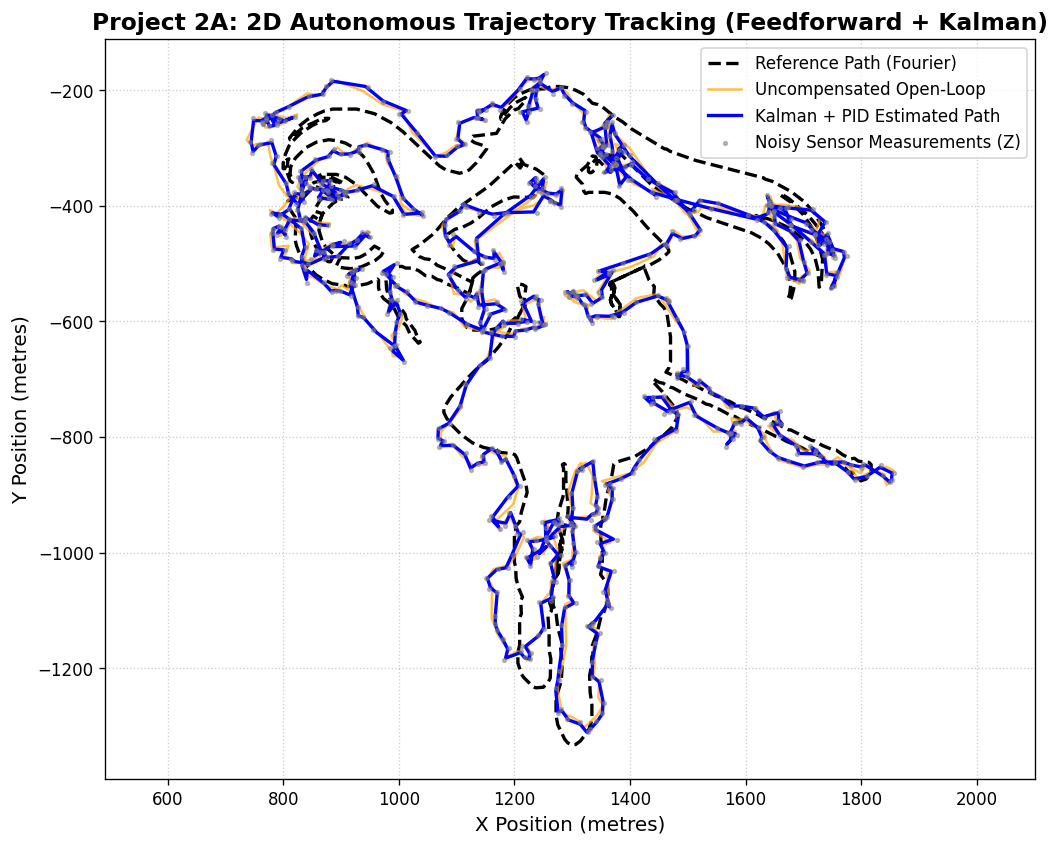
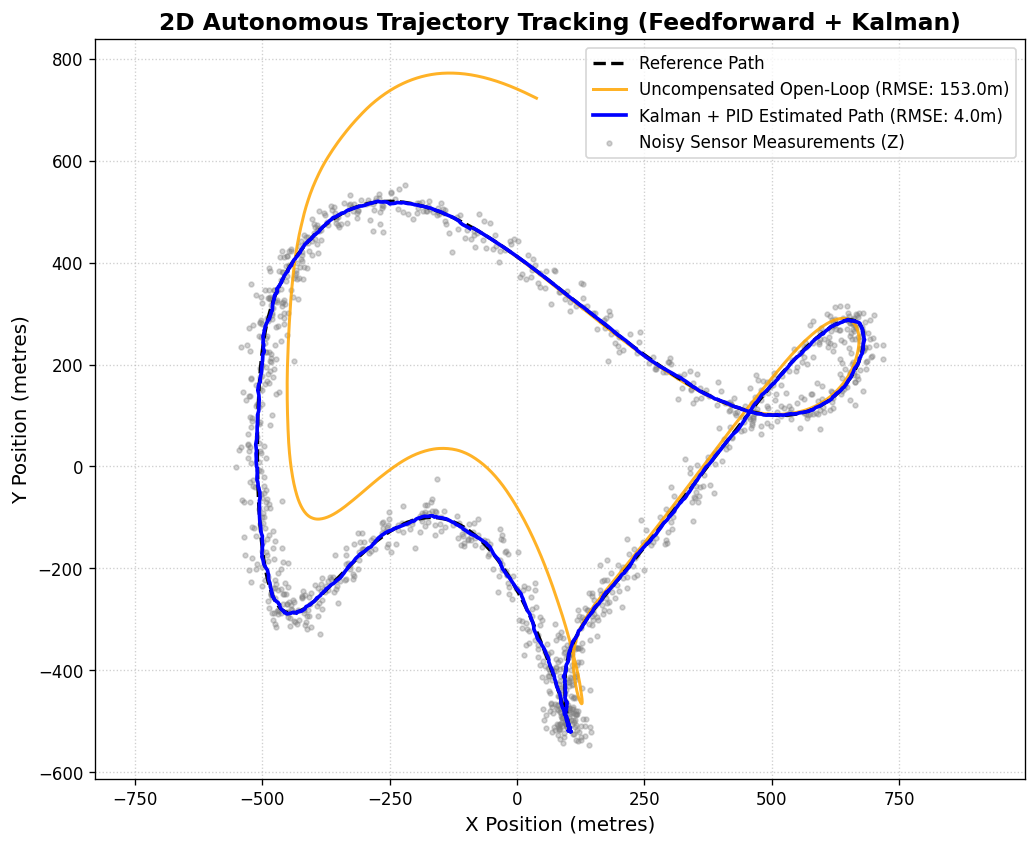
3

diff --git a/trajectory_sim.py b/trajectory_sim.py
@@ -8,16 +8,11 @@ def load_path(filename='frieren_path.npy'):
     path_data = np.load(filename)
     return path_data[:, 0], path_data[:, 1]
 
-<<<<<<< HEAD
 def run_simulation(gains, x_ref, y_ref, dt, sigma_process, sigma_sensor, seed=42):
-=======
-def run_simulation(gains, x_ref, y_ref, dt, sigma_process, sigma_sensor):
->>>>>>> c69218a7c4fa9db08f26b1b96849ff8243c4903c
     """
     Runs the 2D trajectory tracking simulation with Kalman Filter and PID control.
     gains: tuple or list of (Kp, Ki, Kd)
     """
-<<<<<<< HEAD
     if seed is not None:
         np.random.seed(seed)
         
@@ -29,16 +24,6 @@ def run_simulation(gains, x_ref, y_ref, dt, sigma_process, sigma_sensor):
     error_window = deque(maxlen=window_size)
     
     # Initialize arrays using suvats
-=======
-    Kp, Ki, Kd = gains
-    N = len(x_ref)
-    
-    # Sliding window for Integral term (prevents windup)
-    window_size = 50
-    error_window = deque(maxlen=window_size)
-    
-    # State-Space Matrices (SUVAT kinematics)
->>>>>>> c69218a7c4fa9db08f26b1b96849ff8243c4903c
     F = np.array([
         [1.0, 0.0, dt,  0.0],
         [0.0, 1.0, 0.0, dt ],
@@ -58,7 +43,6 @@ def run_simulation(gains, x_ref, y_ref, dt, sigma_process, sigma_sensor):
         [0.0, 1.0, 0.0, 0.0]
     ])
     
-<<<<<<< HEAD
     # Process noise covariance mapped through B (acceleration disturbance) + small regularization
     Q = (B @ B.T) * (sigma_process**2) + np.eye(4) * 1e-4
     R = np.eye(2) * (sigma_sensor**2)
@@ -77,44 +61,15 @@ def run_simulation(gains, x_ref, y_ref, dt, sigma_process, sigma_sensor):
     
     for k in range(N - 1):
         # Target Position
-=======
-    Q = np.eye(4) * (sigma_process**2)
-    R = np.eye(2) * (sigma_sensor**2)
-    
-    # Initial state estimates & uncertainty
-    x_est = np.array([x_ref[0], y_ref[0], 0.0, 0.0], dtype=float).reshape(4, 1)
-    P = np.eye(4) * 1.0
-    
-    # True and Open-loop states
-    x_true = np.array([x_ref[0], y_ref[0], 0.0, 0.0], dtype=float).reshape(4, 1)
-    x_open = np.array([x_ref[0], y_ref[0], 0.0, 0.0], dtype=float).reshape(4, 1)
-    
-    # History logs
-    true_states = []
-    estimated_states = []
-    noisy_measurements = []
-    open_loop_states = []
-    
-    for k in range(N - 1):
-        # 1. Target Position
->>>>>>> c69218a7c4fa9db08f26b1b96849ff8243c4903c
         target_pos = np.array([[x_ref[k]], [y_ref[k]]])
         est_pos = H @ x_est
         pos_error = target_pos - est_pos
         
-<<<<<<< HEAD
         #Rolling Window Integral Error
         error_window.append(pos_error.copy())
         error_integral = np.sum(np.array(error_window), axis=0) * dt
         
         # Target Velocity - path prediction
-=======
-        # 2. Rolling Window Integral Error
-        error_window.append(pos_error.copy())
-        error_integral = np.sum(np.array(error_window), axis=0) * dt
-        
-        # 3. Target Velocity (Finite difference)
->>>>>>> c69218a7c4fa9db08f26b1b96849ff8243c4903c
         if k < N - 2:
             target_vel = np.array([
                 [ (x_ref[k+1] - x_ref[k]) / dt ],
@@ -126,11 +81,7 @@ def run_simulation(gains, x_ref, y_ref, dt, sigma_process, sigma_sensor):
         est_vel = x_est[2:]
         vel_error = target_vel - est_vel
         
-<<<<<<< HEAD
         #Target acceleration - path prediction
-=======
-        # 4. Target Acceleration Feedforward (Path curvature anticipation)
->>>>>>> c69218a7c4fa9db08f26b1b96849ff8243c4903c
         if k < N - 3:
             target_accel = np.array([
                 [ (x_ref[k+2] - 2*x_ref[k+1] + x_ref[k]) / (dt**2) ],
@@ -139,7 +90,6 @@ def run_simulation(gains, x_ref, y_ref, dt, sigma_process, sigma_sensor):
         else:
             target_accel = np.zeros((2, 1))
             
-<<<<<<< HEAD
         #acceleration command
         u = target_accel + (Kp * pos_error) + (Kd * vel_error) + (Ki * error_integral)
         
@@ -149,24 +99,11 @@ def run_simulation(gains, x_ref, y_ref, dt, sigma_process, sigma_sensor):
         
         x_true = F @ x_true + B @ u + process_noise
         x_open = F @ x_open + B @ target_accel + process_noise  # True Open-Loop (no PID feedback)
-=======
-        # 5. Total Control Command (Feedforward + PID Feedback)
-        u = target_accel + (Kp * pos_error) + (Kd * vel_error) + (Ki * error_integral)
-        
-        # 6. Physics Updates
-        process_noise = np.random.normal(0, sigma_process, size=(4, 1))
-        x_true = F @ x_true + B @ u + process_noise
-        x_open = F @ x_open + B @ u + process_noise
->>>>>>> c69218a7c4fa9db08f26b1b96849ff8243c4903c
         
         sensor_noise = np.random.normal(0, sigma_sensor, size=(2, 1))
         z = (H @ x_true) + sensor_noise
         
-<<<<<<< HEAD
         #Kalman Filter: Predict & Update
-=======
-        # 7. Kalman Filter: Predict & Update
->>>>>>> c69218a7c4fa9db08f26b1b96849ff8243c4903c
         x_pred = F @ x_est + B @ u
         P_pred = F @ P @ F.T + Q
         
@@ -192,15 +129,9 @@ def optimize_gains(x_ref, y_ref, dt, sigma_process, sigma_sensor):
     def objective_function(params):
         Kp, Ki, Kd = params
         if Kp < 0 or Ki < 0 or Kd < 0:
-<<<<<<< HEAD
             return 1e6
         
         _, est_arr, _, _ = run_simulation((Kp, Ki, Kd), x_ref, y_ref, dt, sigma_process, sigma_sensor, seed=42)
-=======
-            return 1e6  # Penalty for negative gains
-        
-        _, est_arr, _, _ = run_simulation((Kp, Ki, Kd), x_ref, y_ref, dt, sigma_process, sigma_sensor)
->>>>>>> c69218a7c4fa9db08f26b1b96849ff8243c4903c
         ref_trimmed_x = x_ref[:len(est_arr)]
         ref_trimmed_y = y_ref[:len(est_arr)]
         
@@ -213,7 +144,6 @@ def optimize_gains(x_ref, y_ref, dt, sigma_process, sigma_sensor):
     print(f"Optimal Gains Found -> Kp: {result.x[0]:.2f}, Ki: {result.x[1]:.2f}, Kd: {result.x[2]:.2f}")
     return result.x
 
-<<<<<<< HEAD
 def main(path="example_path.npy"):
     dt = 0.02
     sigma_process = 25.0  # Process noise std dev 
@@ -224,22 +154,6 @@ def main(path="example_path.npy"):
     optimal_gains = optimize_gains(x_ref, y_ref, dt, sigma_process, sigma_sensor)
     true_arr, est_arr, open_arr, meas_arr = run_simulation(optimal_gains, x_ref, y_ref, dt, sigma_process, sigma_sensor)
     
-=======
-def main():
-    dt = 0.02
-    sigma_process = 10
-    sigma_sensor = 5
-    
-    x_ref, y_ref = load_path('frieren_path.npy')
-    
-    optimal_gains = optimize_gains(x_ref, y_ref, dt, sigma_process, sigma_sensor)
-    #optimal_gains = [40,2,15]
-    print(f"Optimal gains: {optimal_gains}")
-    # Run final simulation
-    true_arr, est_arr, open_arr, meas_arr = run_simulation(optimal_gains, x_ref, y_ref, dt, sigma_process, sigma_sensor)
-    
-    # Calculate RMSE
->>>>>>> c69218a7c4fa9db08f26b1b96849ff8243c4903c
     ref_trimmed_x = x_ref[:len(true_arr)]
     ref_trimmed_y = y_ref[:len(true_arr)]
     
@@ -247,7 +161,6 @@ def main():
     rmse_kalman = np.sqrt(np.mean((est_arr[:, 0] - ref_trimmed_x)**2 + (est_arr[:, 1] - ref_trimmed_y)**2))
     
     print(f"\n--- Performance Metrics ---")
-<<<<<<< HEAD
     print(f"Open-Loop Tracking RMSE:    {rmse_open:.4f} metres")
     print(f"Kalman + PID Tracking RMSE: {rmse_kalman:.4f} metres")
     
@@ -258,19 +171,6 @@ def main():
     plt.scatter(meas_arr[:, 0], meas_arr[:, 1], color='gray', s=8, alpha=0.35, label='Noisy Sensor Measurements (Z)', zorder=1)
     
     plt.title('2D Autonomous Trajectory Tracking (Feedforward + Kalman)', fontsize=14, fontweight='bold')
-=======
-    print(f"Open-Loop Tracking RMSE:  {rmse_open:.4f} metres")
-    print(f"Kalman + PID Tracking RMSE: {rmse_kalman:.4f} metres")
-    
-    # Visualisation
-    plt.figure(figsize=(10, 8), dpi=120)
-    plt.plot(x_ref, y_ref, 'k--', linewidth=2.0, label='Reference Path (Fourier)')
-    plt.plot(open_arr[:, 0], open_arr[:, 1], color='orange', linestyle='-', linewidth=1.5, alpha=0.7, label='Uncompensated Open-Loop')
-    plt.plot(est_arr[:, 0], est_arr[:, 1], color='blue', linestyle='-', linewidth=2.0, label='Kalman + PID Estimated Path')
-    plt.scatter(meas_arr[:, 0], meas_arr[:, 1], color='gray', s=5, alpha=0.5, label='Noisy Sensor Measurements (Z)', zorder=5)
-    
-    plt.title('Project 2A: 2D Autonomous Trajectory Tracking (Feedforward + Kalman)', fontsize=14, fontweight='bold')
->>>>>>> c69218a7c4fa9db08f26b1b96849ff8243c4903c
     plt.xlabel('X Position (metres)', fontsize=12)
     plt.ylabel('Y Position (metres)', fontsize=12)
     plt.legend(loc='upper right', frameon=True)

diff --git a/README.md b/README.md
@@ -4,8 +4,12 @@ A rigorous Python-based simulation framework implementing a discrete-time **Line
 
 ## 📊 Visual Results
 
+<p align="center">
+  <img src="frieren_path.png" alt="2D Autonomous Trajectory Tracking Simulation" width="750">
+  <br>
+  <em>Figure 1: Benchmark comparison showing uncompensated open-loop drift vs. closed-loop Kalman + PID tracking along the parametric reference path.</em>
+</p>
 
-*Figure 1: Comparison of uncompensated open-loop random-walk drift versus smooth closed-loop Kalman + PID trajectory tracking across a complex Fourier epicycle reference path (`frieren_path.npy`).*
 
 ## 🧠 System Architecture & Methodology
 
